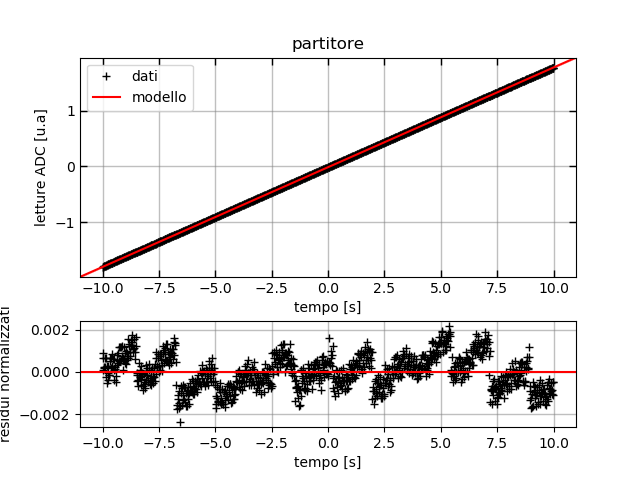
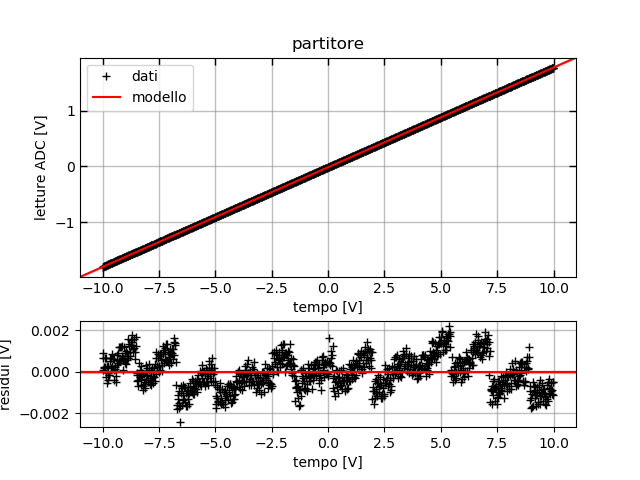
aggiornati grafici e risultati

diff --git a/settimana_1/partitori_2/programma.py b/settimana_1/partitori_2/programma.py
@@ -17,9 +17,9 @@ g.data.yData = y[1:]
 g.data.dxData = dx[1:]
 g.data.dyData = dy[1:]
 
-init = [0, 0]
+init = [1, 0]
 def f(x, a, b) :
-    return a * x + b
+    return x / a + b
 
 g.fitParams.model = f
 g.fitParams.params = init
@@ -29,10 +29,11 @@ g.plotParams.plot_errors = False
 g.plotParams.plot_model = True
 g.plotParams.title = 'partitore'
 g.plotParams.nome_asse_y = 'letture ADC'
-g.plotParams.unita_asse_y = '[u.a]'
+g.plotParams.unita_asse_y = '[V]'
 g.plotParams.nome_asse_x = 'tempo'
-g.plotParams.unita_asse_x = '[s]'
+g.plotParams.unita_asse_x = '[V]'
 g.fitParams.absolute_sigma = False
 g.plotParams.plot_residui = True
+g.plotParams.residui_normalizzati = False
 g.fit()
 g.plot()
